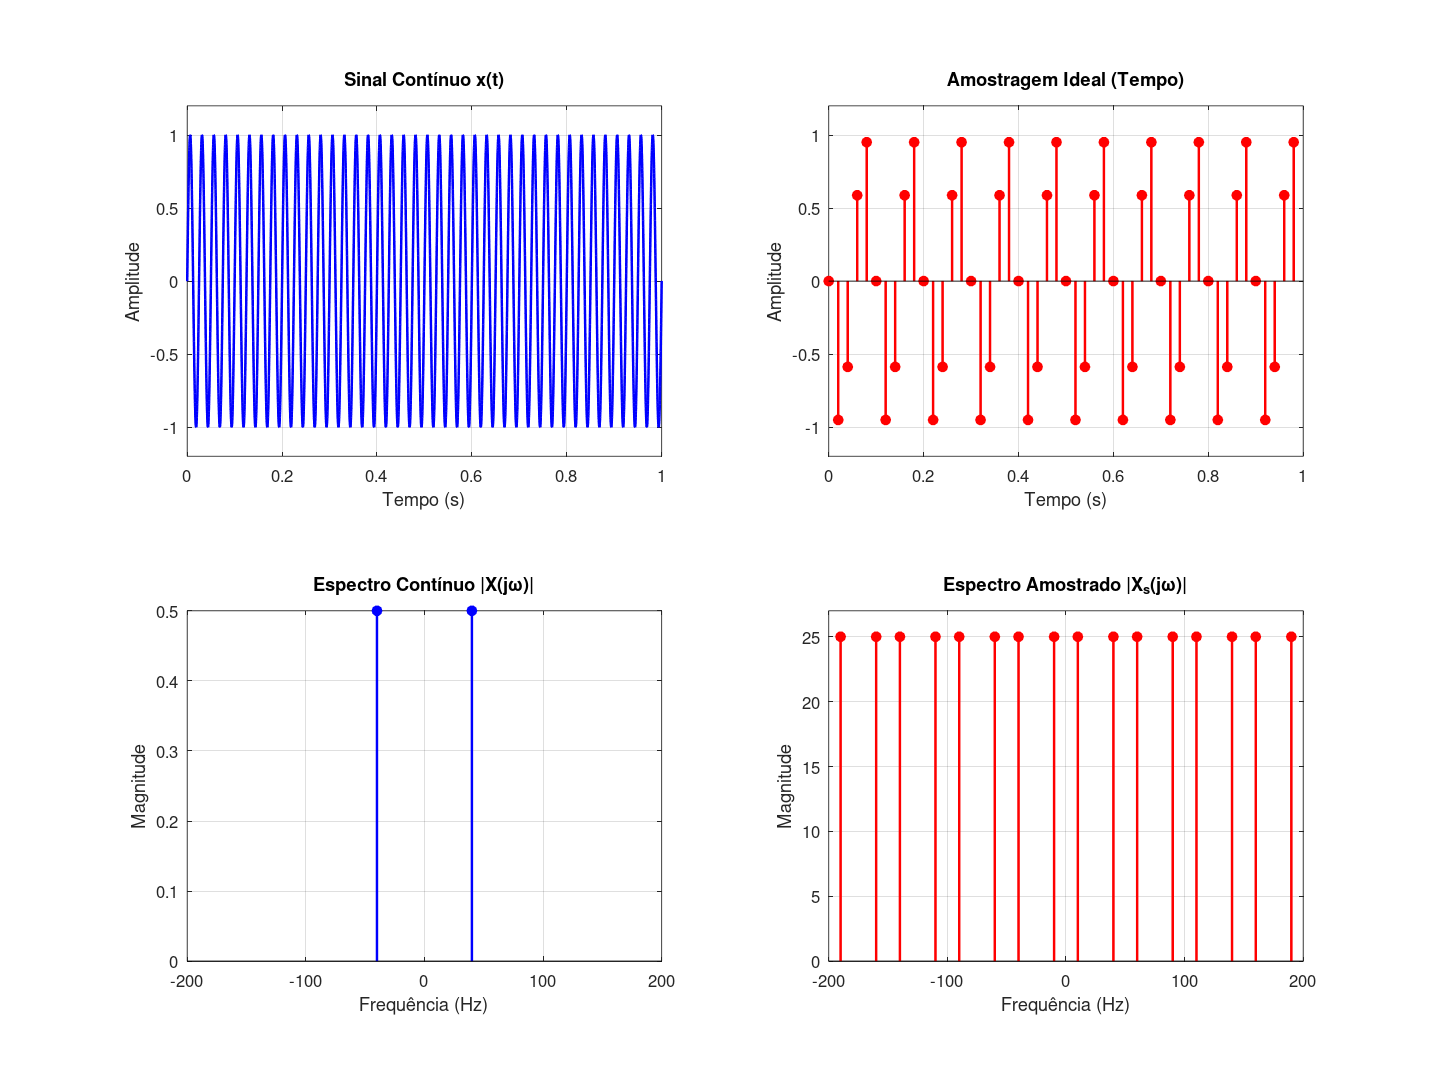
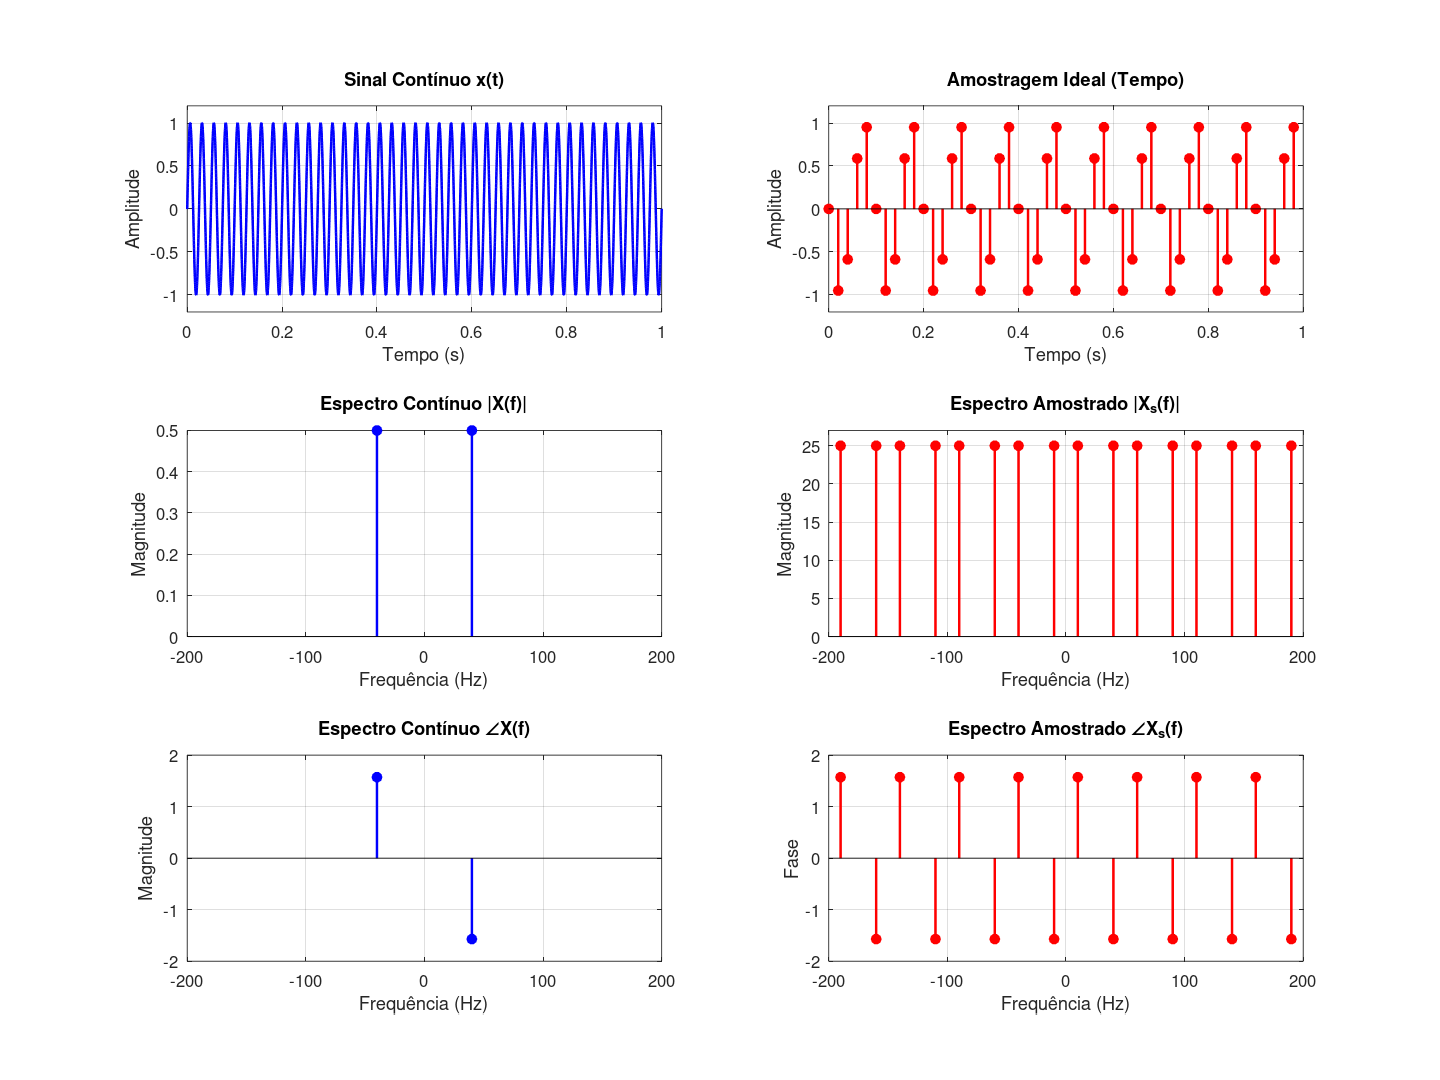
fix: visão dos espectros e passo de animação

diff --git a/utils/plotSamplingFigure.m b/utils/plotSamplingFigure.m
@@ -19,14 +19,14 @@ function fig = plotSamplingFigure( ...
     fig = figure('Name', figName, 'Position', [100, 100, 1000, 800]);
 
     % PLOT 1: Sinal contínuo no tempo
-    subplot(2, 2, 1);
+    subplot(3, 2, 1);
     plot(continuousTime, continuousSignal, 'b-', 'LineWidth', 1.5);
     title('Sinal Contínuo x(t)');
     xlabel('Tempo (s)'); ylabel('Amplitude');
     grid on; ylim([-1.2 1.2]);
 
     % PLOT 2: Sinal amostrado no tempo
-    subplot(2, 2, 2);
+    subplot(3, 2, 2);
     if strcmp(sampledStyle, 'stem')
         stem(sampledTime, sampledSignal, sampledColor, 'Filled', 'LineWidth', 1.5, 'MarkerFaceColor', sampledColor);
     else
@@ -37,14 +37,14 @@ function fig = plotSamplingFigure( ...
     grid on; ylim([-1.2 1.2]);
 
     % PLOT 3: Espectro contínuo
-    subplot(2, 2, 3);
+    subplot(3, 2, 3);
     stem(continuousFrequencies, abs(continuousAmplitudes), 'b', 'Filled', 'LineWidth', 1.5, 'MarkerFaceColor', 'b');
-    title('Espectro Contínuo |X(j\omega)|');
+    title('Espectro Contínuo |X(f)|');
     xlabel('Frequência (Hz)'); ylabel('Magnitude');
     grid on; xlim([-displayRange displayRange]);
 
     % PLOT 4: Espectro amostrado
-    subplot(2, 2, 4);
+    subplot(3, 2, 4);
     stem(sampledFrequencies, abs(sampledAmplitudes), sampledColor, 'Filled', 'LineWidth', 1.5, 'MarkerFaceColor', sampledColor);
     if ~isempty(envelopeFreq)
         hold on;
@@ -52,10 +52,24 @@ function fig = plotSamplingFigure( ...
         legend('Impulsos', 'Envelope sinc (Abertura)', 'Location', 'northeast');
         hold off;
     end
-    title(['Espectro Amostrado |X_s(j\omega)|']);
+    title(['Espectro Amostrado |X_s(f)|']);
     xlabel('Frequência (Hz)'); ylabel('Magnitude');
     grid on; xlim([-displayRange displayRange]);
     if ~isempty(magYLim)
         ylim(magYLim);
     end
+
+    % PLOT 5: Espectro contínuo
+    subplot(3, 2, 5);
+    stem(continuousFrequencies, angle(continuousAmplitudes), 'b', 'Filled', 'LineWidth', 1.5, 'MarkerFaceColor', 'b');
+    title('Espectro Contínuo ∠X(f)');
+    xlabel('Frequência (Hz)'); ylabel('Magnitude');
+    grid on; xlim([-displayRange displayRange]); ylim([-2 2]);
+
+    % PLOT 6: Espectro amostrado
+    subplot(3, 2, 6);
+    stem(sampledFrequencies, angle(sampledAmplitudes), sampledColor, 'Filled', 'LineWidth', 1.5, 'MarkerFaceColor', sampledColor);
+    title(['Espectro Amostrado ∠X_s(f)']);
+    xlabel('Frequência (Hz)'); ylabel('Fase');
+    grid on; xlim([-displayRange displayRange]); ylim([-2 2]);
 end

diff --git a/utils/plotSamplingFrame.m b/utils/plotSamplingFrame.m
@@ -12,12 +12,12 @@ function plotSamplingFrame( ...
     % sinal contínuo com uma versão amostrada, em tempo e frequência.
     % Assume que a figura de destino já está ativa e foi limpa (clf).
 
-    subplot(2, 2, 1);
+    subplot(3, 2, 1);
     plot(continuousTime, continuousSignal, 'b-', 'LineWidth', 1.5);
     title(titleContinuous);
     xlabel('Tempo (s)'); ylabel('Amplitude'); grid on; ylim([-1.2 1.2]);
 
-    subplot(2, 2, 2);
+    subplot(3, 2, 2);
     if strcmp(sampledStyle, 'stem')
         stem(sampledTime, sampledSignal, sampledColor, 'filled', 'LineWidth', 1.5);
     else
@@ -26,18 +26,30 @@ function plotSamplingFrame( ...
     title(titleSampled);
     xlabel('Tempo (s)'); ylabel('Amplitude'); grid on; ylim([-1.2 1.2]);
 
-    subplot(2, 2, 3);
+    subplot(3, 2, 3);
     stem(continuousFrequencies, abs(continuousAmplitudes), 'b', 'Marker', '^', 'LineWidth', 1.5, 'MarkerFaceColor', 'b');
-    title('Espectro Contínuo |X(j\omega)|');
+    title('Espectro Contínuo |X(f)|');
     xlabel('Frequência (Hz)'); ylabel('Magnitude'); grid on;
     xlim([-displayRange displayRange]); ylim([0 0.6]);
 
-    subplot(2, 2, 4);
+    subplot(3, 2, 4);
     stem(sampledFrequencies, abs(sampledAmplitudes), sampledColor, 'Marker', '^', 'LineWidth', 1.5, 'MarkerFaceColor', sampledColor);
-    title('Espectro Amostrado |X_s(j\omega)|');
+    title('Espectro Amostrado X_s(f)');
     xlabel('Frequência (Hz)'); ylabel('Magnitude'); grid on;
     xlim([-displayRange displayRange]);
     if ~isempty(magYLim)
         ylim(magYLim);
     end
+
+    subplot(3, 2, 5);
+    stem(continuousFrequencies, arg(continuousAmplitudes), 'b', 'Filled', 'LineWidth', 1.5);
+    title('Espectro Contínuo ∠X(f)');
+    xlabel('Frequência (Hz)'); ylabel('Magnitude'); grid on;
+    xlim([-displayRange displayRange]);
+
+    subplot(3, 2, 6);
+    stem(sampledFrequencies, arg(sampledAmplitudes), sampledColor, 'Filled', 'LineWidth', 1.5);
+    title('Espectro Amostrado ∠X(f)');
+    xlabel('Frequência (Hz)'); ylabel('Magnitude'); grid on;
+    xlim([-displayRange displayRange]);
 end

diff --git a/main_animations.m b/main_animations.m
@@ -44,16 +44,16 @@ endTime = 1;
 % Em ambientes mais lentos (ex: sem interface gráfica Qt/FLTK), considere
 % reduzir numFramesPerSweep para acelerar a geração dos 12 GIFs.
 numPoints = 2001;
-numFramesPerSweep = 35;
+numFramesPerSweep = 40;
 
 % =========================================================================
 %% SWEEP 1: Variando a Frequência do Sinal (fs fixa)
 % =========================================================================
 disp('Gerando animações do Sweep 1: variando a frequência do sinal...');
 
-samplingFrequencyFixed = 50;               % fs fixa (Nyquist exige f < 25 Hz)
-displayRangeSweep1 = 100;                  % fixo para a animação não "pular"
-freqSweep1 = linspace(5, 40, numFramesPerSweep);          % frequência varia de 5 a 40 Hz
+samplingFrequencyFixed = 20;               % fs fixa (Nyquist exige f < 25 Hz)
+displayRangeSweep1 = 60;                  % fixo para a animação não "pular"
+freqSweep1 = linspace(1, 25, numFramesPerSweep);          % frequência varia de 1 a 25 Hz
 
 runAnimationSweep( ...
     'Sweep 1 (variando f)', ...
@@ -68,9 +68,9 @@ runAnimationSweep( ...
 % =========================================================================
 disp('Gerando animações do Sweep 2: variando a frequência de amostragem...');
 
-frequencyFixed = 20;                       % f fixa (Nyquist exige fs > 40 Hz)
-displayRangeSweep2 = 150;                  % fixo para a animação
-fsSweep2 = linspace(100, 15, numFramesPerSweep);          % fs varia caindo de 100 até 15 Hz
+frequencyFixed = 15;                       % f fixa (Nyquist exige fs > 30 Hz)
+displayRangeSweep2 = 60;                  % fixo para a animação
+fsSweep2 = linspace(10, 50, numFramesPerSweep);          % fs varia de 10 até 50 Hz
 
 runAnimationSweep( ...
     'Sweep 2 (variando fs)', ...

diff --git a/utils/plotReconstructionFrame.m b/utils/plotReconstructionFrame.m
@@ -23,9 +23,9 @@ function plotReconstructionFrame( ...
     xlabel('Tempo (s)'); ylabel('Amplitude'); grid on; ylim([-1.2 1.2]);
 
     subplot(2, 2, 3);
-    plot(continuousTime, continuousSignal, 'b-', 'LineWidth', 1);
+    plot(continuousTime, continuousSignal, 'k--', 'LineWidth', 1);
     hold on;
-    plot(continuousTime, reconstructedSignal, [color '--'], 'LineWidth', 1.2);
+    plot(continuousTime, reconstructedSignal, [color '-'], 'LineWidth', 1.2);
     hold off;
     title('Sobreposição: Original vs Reconstruído');
     xlabel('Tempo (s)'); ylabel('Amplitude'); grid on; ylim([-1.2 1.2]);

diff --git a/main.m b/main.m
@@ -53,7 +53,7 @@ runSamplingCase( ...
 % -------------------------------------------------------------------
 % CASO 2: Aliasing (f > fs/2)
 % -------------------------------------------------------------------
-frequencyAliasing = 40; % Hz (> 25 Hz de Nyquist, gera réplica em 10 Hz)
+frequencyAliasing = 40; % Hz (> 25 Hz de Nyquist)
 
 runSamplingCase( ...
     'Aliasing', 'aliasing', ...
